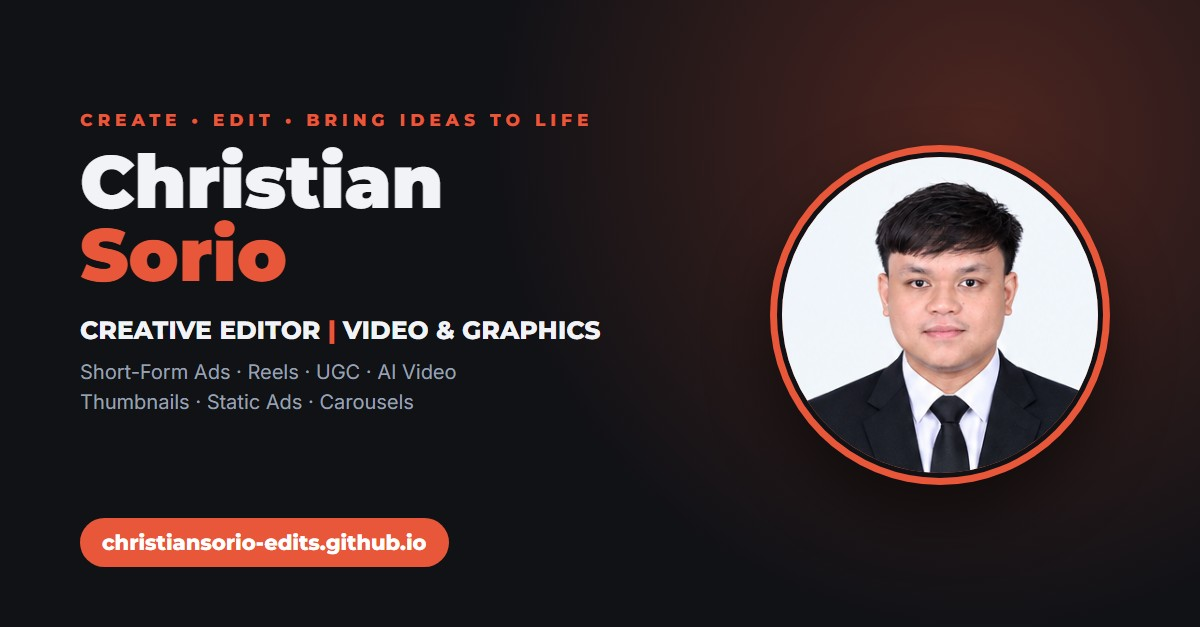
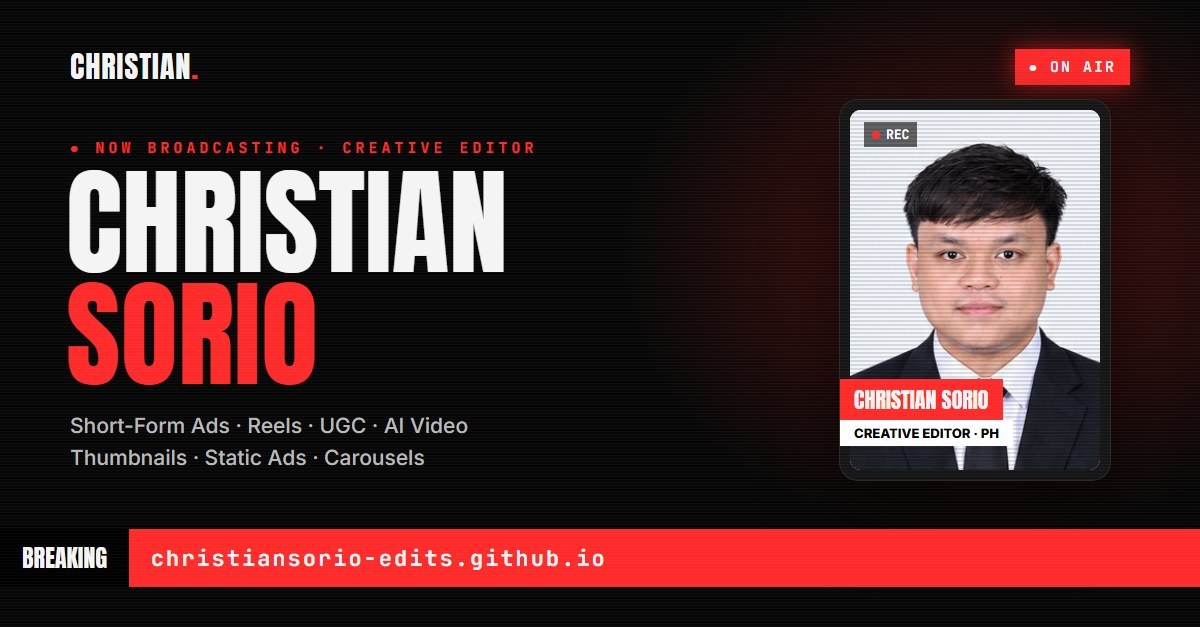
Add files via upload

diff --git a/og-image.html b/og-image.html
@@ -1,0 +1,45 @@
+<!doctype html>
+<html>
+<head>
+<meta charset="utf-8">
+<title>Link Preview</title>
+<link href="https://fonts.googleapis.com/css2?family=Anton&family=Inter:wght@500;800&family=JetBrains+Mono:wght@700&display=swap" rel="stylesheet">
+<style>
+  /* Source of media/og-image.jpg (the picture shown when the site link is shared), 1200x627. Night Broadcast theme. */
+  * { margin: 0; padding: 0; box-sizing: border-box; }
+  html, body { width: 1200px; height: 627px; overflow: hidden; }
+  body { position: relative; background: radial-gradient(ellipse 520px 420px at 82% 40%, rgba(255,42,42,0.3), transparent 70%), #070707; color: #f4f4f4; font-family: Inter, sans-serif; }
+  .scan { position: absolute; inset: 0; z-index: 20; background: repeating-linear-gradient(0deg, rgba(255,255,255,0.03) 0 1px, transparent 1px 3px); }
+  .mono { font-family: 'JetBrains Mono', monospace; font-weight: 700; }
+  .top { position: absolute; left: 70px; right: 70px; top: 44px; display: flex; justify-content: space-between; align-items: center; }
+  .logo { font-family: Anton; font-size: 30px; letter-spacing: 1px; }
+  .logo b { color: #ff2a2a; font-weight: 400; }
+  .onair { background: #ff2a2a; font-size: 15px; letter-spacing: 2px; padding: 8px 14px; box-shadow: 0 0 24px rgba(255,42,42,0.6); }
+  .kick { position: absolute; left: 70px; top: 138px; font-size: 15px; letter-spacing: 4px; color: #ff2a2a; }
+  h1 { position: absolute; left: 66px; top: 166px; font-family: Anton; font-weight: 400; font-size: 118px; line-height: 0.95; text-transform: uppercase; }
+  h1 span { color: #ff2a2a; }
+  .list { position: absolute; left: 70px; top: 410px; font-size: 21px; line-height: 1.5; color: #b9b9b9; }
+  .ticker { position: absolute; left: 0; right: 0; bottom: 40px; height: 58px; background: #ff2a2a; display: flex; align-items: center; z-index: 5; }
+  .ticker .tag { background: #000; height: 100%; display: flex; align-items: center; padding: 0 22px; font-family: Anton; font-size: 24px; }
+  .ticker .txt { font-family: 'JetBrains Mono'; font-weight: 700; font-size: 22px; letter-spacing: 2px; padding-left: 22px; }
+  .tv { position: absolute; right: 90px; top: 100px; width: 270px; height: 380px; padding: 10px; border-radius: 18px; background: #161616; box-shadow: 0 0 0 1px #2a2a2a, 0 30px 70px rgba(0,0,0,0.7); }
+  .tv .scr { position: relative; width: 100%; height: 100%; border-radius: 11px; overflow: hidden; background: #eee; }
+  .tv img { width: 100%; height: 100%; object-fit: cover; object-position: top; display: block; }
+  .tv .scr::after { content: ''; position: absolute; inset: 0; background: repeating-linear-gradient(0deg, rgba(0,0,0,0.12) 0 2px, transparent 2px 4px); }
+  .tv .rec { position: absolute; left: 24px; top: 22px; z-index: 2; font-size: 13px; color: #fff; display: flex; align-items: center; gap: 6px; background: rgba(0,0,0,0.6); padding: 4px 8px; }
+  .tv .rec i { width: 8px; height: 8px; border-radius: 50%; background: #ff2a2a; }
+  .l3 { position: absolute; left: 0; bottom: 34px; z-index: 2; }
+  .l3 .a { background: #ff2a2a; font-family: Anton; font-size: 22px; padding: 4px 14px; display: inline-block; }
+  .l3 .b { background: #fff; color: #000; font-weight: 800; font-size: 13px; padding: 5px 14px; }
+</style>
+</head>
+<body>
+  <div class="top"><div class="logo">CHRISTIAN<b>.</b></div><div class="onair mono">● ON AIR</div></div>
+  <div class="kick mono">● NOW BROADCASTING · CREATIVE EDITOR</div>
+  <h1>Christian<br><span>Sorio</span></h1>
+  <div class="list">Short-Form Ads · Reels · UGC · AI Video<br>Thumbnails · Static Ads · Carousels</div>
+  <div class="tv"><div class="scr"><img src="media/photo.png" alt=""></div><span class="rec mono"><i></i>REC</span><div class="l3"><div class="a">CHRISTIAN SORIO</div><div class="b">CREATIVE EDITOR · PH</div></div></div>
+  <div class="ticker"><div class="tag">BREAKING</div><div class="txt">christiansorio-edits.github.io</div></div>
+  <div class="scan"></div>
+</body>
+</html>

diff --git a/index.html b/index.html
@@ -20,7 +20,7 @@
 <link rel="preconnect" href="https://fonts.googleapis.com">
 <link rel="preconnect" href="https://fonts.gstatic.com" crossorigin>
 <link href="https://fonts.googleapis.com/css2?family=Anton&family=Inter:wght@400;500;600;800&family=JetBrains+Mono:wght@500;700&display=swap" rel="stylesheet">
-<link rel="stylesheet" href="style.css">
+<link rel="stylesheet" href="style.css?v=20261119">
 </head>
 <body>
 
@@ -63,8 +63,8 @@
 <div class="ticker" aria-hidden="true">
   <div class="tag">BREAKING</div>
   <div class="roll"><div class="track">
-    <span>SHORT-FORM ADS</span><i>✦</i><span>REELS &amp; TIKTOK</span><i>✦</i><span>UGC</span><i>✦</i><span>AI VIDEO</span><i>✦</i><span>MOTION GRAPHICS</span><i>✦</i><span>CAPTIONS</span><i>✦</i><span>THUMBNAILS</span><i>✦</i><span>STATIC ADS</span><i>✦</i><span>CAROUSELS</span><i>✦</i>
-    <span>SHORT-FORM ADS</span><i>✦</i><span>REELS &amp; TIKTOK</span><i>✦</i><span>UGC</span><i>✦</i><span>AI VIDEO</span><i>✦</i><span>MOTION GRAPHICS</span><i>✦</i><span>CAPTIONS</span><i>✦</i><span>THUMBNAILS</span><i>✦</i><span>STATIC ADS</span><i>✦</i><span>CAROUSELS</span><i>✦</i>
+    <span>SHORT-FORM ADS</span><i>✦</i><span>REELS &amp; TIKTOK</span><i>✦</i><span>UGC</span><i>✦</i><span>AI VIDEO</span><i>✦</i><span>AI DRAMA</span><i>✦</i><span>MOTION GRAPHICS</span><i>✦</i><span>CAPTIONS</span><i>✦</i><span>THUMBNAILS</span><i>✦</i><span>STATIC ADS</span><i>✦</i><span>CAROUSELS</span><i>✦</i>
+    <span>SHORT-FORM ADS</span><i>✦</i><span>REELS &amp; TIKTOK</span><i>✦</i><span>UGC</span><i>✦</i><span>AI VIDEO</span><i>✦</i><span>AI DRAMA</span><i>✦</i><span>MOTION GRAPHICS</span><i>✦</i><span>CAPTIONS</span><i>✦</i><span>THUMBNAILS</span><i>✦</i><span>STATIC ADS</span><i>✦</i><span>CAROUSELS</span><i>✦</i>
   </div></div>
 </div>
 
@@ -174,7 +174,7 @@
 </div>
 
 <div class="scan" aria-hidden="true"></div>
-<script src="portfolio.js"></script>
-<script src="site.js"></script>
+<script src="portfolio.js?v=20261119"></script>
+<script src="site.js?v=20261119"></script>
 </body>
 </html>

diff --git a/portfolio.js b/portfolio.js
@@ -13,6 +13,9 @@ const PORTFOLIO = [
   {"id": "1LxD8gBvds79M7jFdnryAcibVM8WRQJcC", "group": "ai", "label": "AI Hook", "kind": "video", "title": "AI Hook (No Talking Head) #2", "ratio": 0.562},
   {"id": "1eeiirNsSw6RR7J_0uDA2y2yPgmv66c0q", "group": "ai", "label": "AI Pixar 3D", "kind": "video", "title": "AI Pixar-Style 3D #1", "ratio": 0.562},
   {"id": "1GBqyzmklxwbrTRb71RFEnsqWDwgNujqs", "group": "ai", "label": "AI Pixar 3D", "kind": "video", "title": "AI Pixar-Style 3D #2", "ratio": 0.562},
+  {"id": "1IEuGt8buBxk8msd_A5p1YdYM-3LYYcJX", "group": "ai", "label": "AI Drama", "kind": "video", "title": "AI Drama #1", "ratio": 0.5625},
+  {"id": "1beDJp7NoiBUd9I9UZotQB57nMZYaw1rU", "group": "ai", "label": "AI Drama", "kind": "video", "title": "AI Drama #2", "ratio": 0.5625},
+  {"id": "12vn5UKf4HM3abRQV6b9ub_yhu6enNVWt", "group": "ai", "label": "AI Drama", "kind": "video", "title": "AI Drama #3", "ratio": 0.5625},
   {"id": "1BxJCoIsiFBhQqM8Jt31-HA1tvMaxbgE9", "group": "ai", "label": "AI Claymation", "kind": "video", "title": "AI Claymation", "ratio": 0.562},
   {"id": "1jnAkeNJboeHcfjiDeJaAAJa-NF9hmw40", "group": "ai", "label": "AI Podcast", "kind": "video", "title": "AI Podcast Edit", "ratio": 0.558},
   {"id": "17-xgNh73HoH-IfYEYX9jaNZ-Zs-lGmfc", "group": "motion", "label": "Motion Graphics", "kind": "video", "title": "Motion Graphics #1", "ratio": 0.562},

diff --git a/site.js b/site.js
@@ -25,6 +25,7 @@ const STYLES = [
   { label: "AI UGC", name: "AI UGC", text: "Realistic AI creators presenting products." },
   { label: "AI Hook", name: "AI Hooks (No Talking Head)", text: "Scroll-stopping AI hooks without a talking head." },
   { label: "AI Pixar 3D", name: "AI Pixar-Style 3D", text: "Animated 3D characters that stay consistent from shot to shot." },
+  { label: "AI Drama", name: "AI Drama", text: "Short AI drama stories with consistent characters, emotion and captions." },
   { label: "Motion Graphics", name: "Motion Graphics", text: "Kinetic type and animated graphics for promos and Reels." },
   { label: "Thumbnail", name: "YouTube Thumbnails", text: "Bold, trending thumbnails built to get the click." },
   { label: "Static Ad", name: "Static Ads", text: "Clean, on-brand ad creatives for Facebook and Instagram." },
@@ -44,7 +45,7 @@ STYLES.forEach((s) => {
   g.className = "group reveal";
   g.innerHTML =
     `<div class="group-head"><span class="group-num">CH ${pad(channel)}</span>` +
-    `<div><h3>${s.name}</h3><p>${s.text}</p></div></div><div class="group-items"></div>`;
+    `<div><h3>${s.name}</h3><p>${s.text}</p></div></div><div class="group-items${works.length === 3 ? " three" : ""}"></div>`;
   const row = g.querySelector(".group-items");
   works.forEach((p) => {
     const el = document.createElement("button");

diff --git a/style.css b/style.css
@@ -99,6 +99,7 @@ h1 span, h2 span { color: var(--red); }
 .group h3 { font-family: var(--head); font-weight: 400; font-size: 24px; letter-spacing: .5px; text-transform: uppercase; line-height: 1.1; }
 .group p { color: var(--muted); font-size: 14px; line-height: 1.5; margin-top: 4px; }
 .group-items { display: grid; grid-template-columns: 1fr 1fr; gap: 12px; }
+.group-items.three { grid-template-columns: repeat(3, 1fr); gap: 8px; }
 .item { position: relative; aspect-ratio: 9 / 16; overflow: hidden; background: #000; border: 0; padding: 0; cursor: pointer; }
 .item img { width: 100%; height: 100%; object-fit: cover; transition: transform .5s, filter .3s; filter: saturate(.9); }
 .item::after { content: ""; position: absolute; inset: 0; background: repeating-linear-gradient(0deg, rgba(0, 0, 0, .14) 0 2px, transparent 2px 4px); pointer-events: none; }
